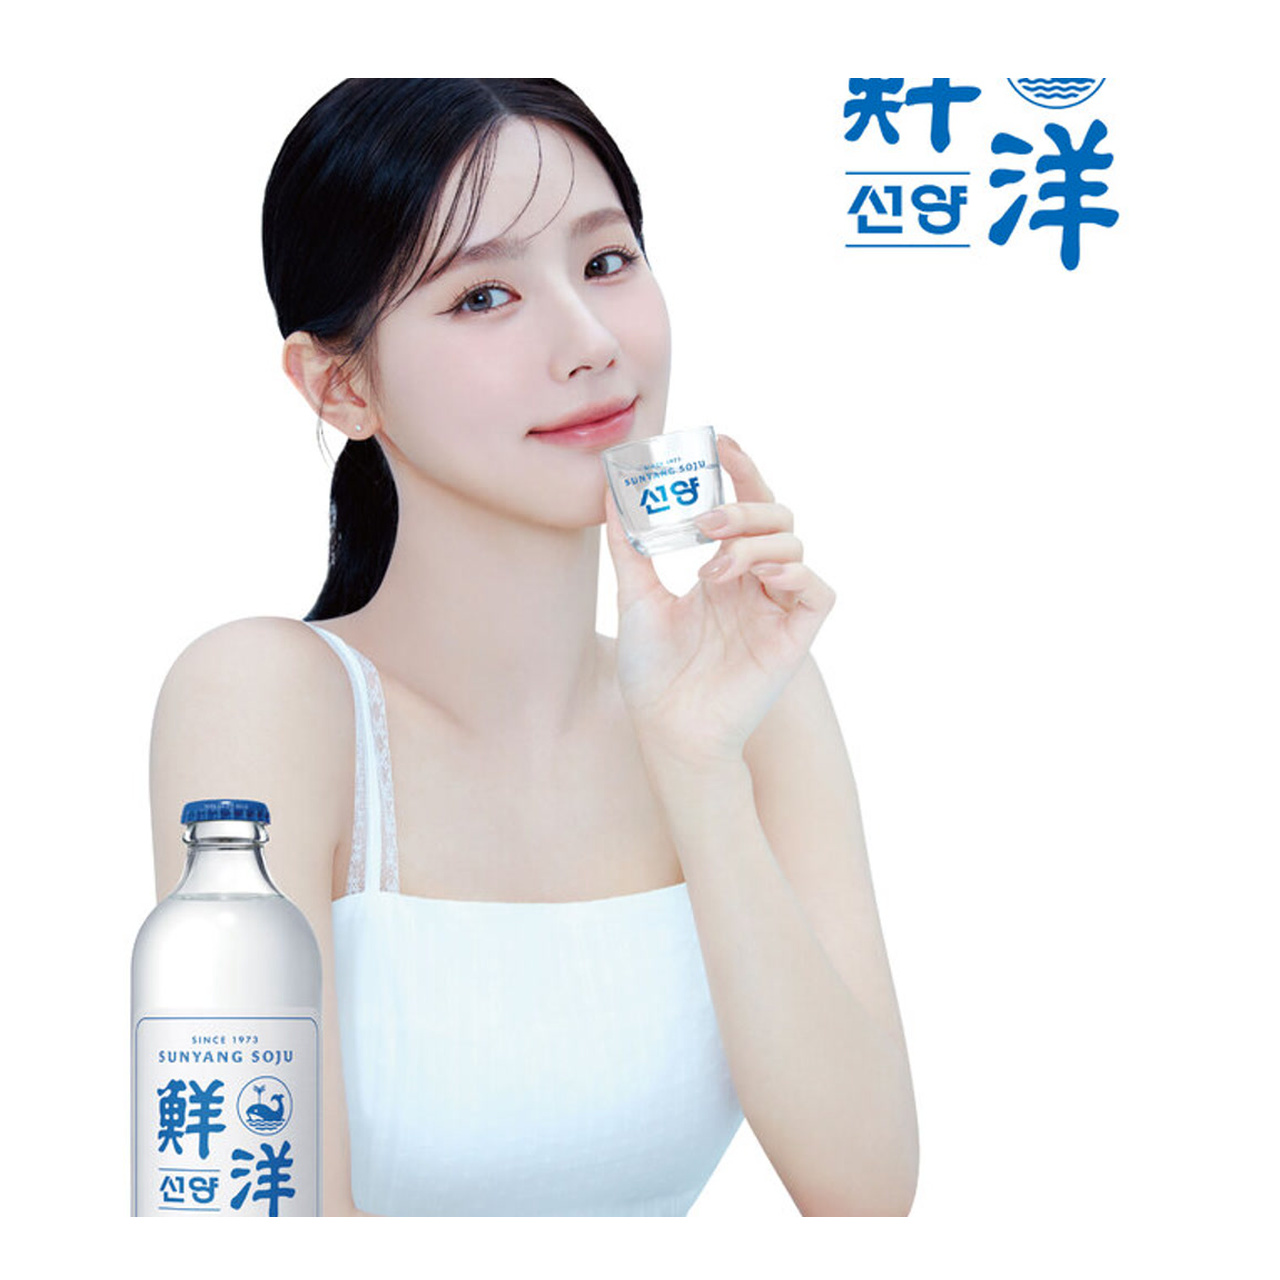
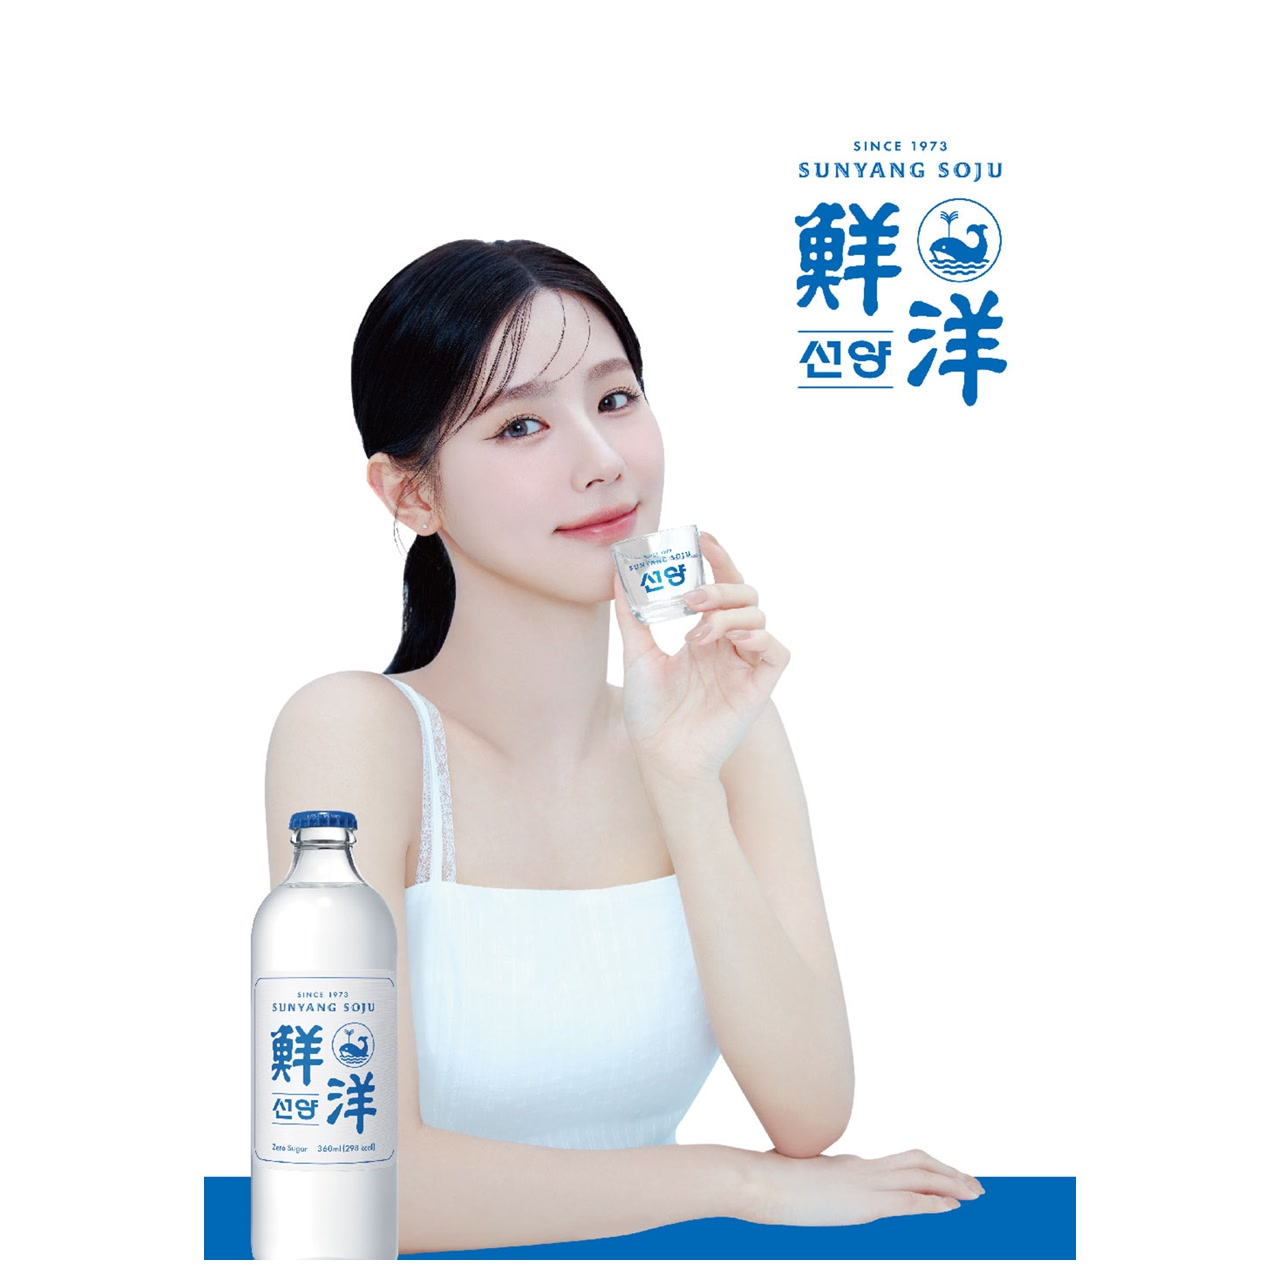
Fix soju model head crops

Changed region(s): [[0.0938, 0.0625, 0.8438, 1.0], [0.625, 0.0625, 0.875, 0.3125]]

diff --git a/tablet-preview.html b/tablet-preview.html
@@ -95,7 +95,7 @@ html[lang="zh"] body,html[lang="zh"] button,html[lang="zh"] input{font-family:"M
 <div class="dialog-layer" id="successModal" aria-hidden="true">
  <section class="dialog-panel success-panel" role="dialog" aria-modal="true" aria-labelledby="successTitle"><div class="success-icon">✓</div><h2 id="successTitle">주문을 전송했습니다</h2><p id="successMessage">주방에서 주문을 확인하고 있습니다.</p><div class="order-receipt"><div class="receipt-box"><span id="successTableLabel">테이블</span><strong id="successTable">-</strong></div><div class="receipt-box"><span id="successTotalLabel">주문 금액</span><strong id="successTotal">0 ₫</strong></div></div><button class="success-done" id="successDone" type="button" onclick="finishOrder()">확인</button></section>
 </div>
-<script src="assets/menu-images.js?v=20260830-visual-option-fix-v6"></script>
+<script src="assets/menu-images.js?v=20260830-soju-head-safe-v7"></script>
 <script src="assets/table-layout.js"></script>
 <script src="assets/option-order.js"></script>
 <script>

diff --git a/assets/menu-images.js b/assets/menu-images.js
@@ -8,7 +8,7 @@ const MENU_QR_ADDED_IMAGE_IDS=new Set(`08b4aba2-4116-4148-b2a9-763c5d72d543 3b52
 const MENU_QR_ADDED_JPG_IDS=new Set(`6a4fc8cd-4937-46f0-990c-536bdffb1de3`.split(' '));
 MENU_QR_ADDED_IMAGE_IDS.forEach(id=>MENU_IMAGE_IDS.add(id));
 MENU_QR_ADDED_JPG_IDS.forEach(id=>MENU_JPG_IDS.add(id));
-const MENU_IMAGE_REVISION='20260830-visual-option-fix-v6';
+const MENU_IMAGE_REVISION='20260830-soju-head-safe-v7';
 const MENU_FORCE_PNG_IDS=new Set(`1644c776-3499-42d0-a911-ab8152608195`.split(' '));
 const MENU_FORCE_JPG_IDS=new Set(`2813d1e7-250b-49ae-9f76-e5b40f451492 45a0262c-d9f7-4b8b-a937-542d81c32e95`.split(' '));
 function menuImage(id){if(!MENU_IMAGE_IDS.has(id))return'';const extension=MENU_FORCE_PNG_IDS.has(id)?'png':MENU_FORCE_JPG_IDS.has(id)||MENU_JPG_IDS.has(id)||MENU_GENERATED_JPG_IDS.has(id)||MENU_REFRESHED_JPG_IDS.has(id)||MENU_REFRAMED_JPG_IDS.has(id)||MENU_CROPPED_JPG_IDS.has(id)?'jpg':'png';return`assets/menu/${id}.${extension}?asset=${MENU_IMAGE_REVISION}`}

diff --git a/service-worker.js b/service-worker.js
@@ -1,4 +1,4 @@
-const CACHE_VERSION = 'dabang-tablet-v15';
+const CACHE_VERSION = 'dabang-tablet-v16';
 const SHELL_CACHE = `${CACHE_VERSION}-shell`;
 const RUNTIME_CACHE = `${CACHE_VERSION}-runtime`;
 const APP_SHELL = [
@@ -6,7 +6,7 @@ const APP_SHELL = [
   './manifest.webmanifest',
   './assets/table-layout.js',
   './assets/option-order.js',
-  './assets/menu-images.js?v=20260830-visual-option-fix-v6',
+  './assets/menu-images.js?v=20260830-soju-head-safe-v7',
   './assets/brand/dabang-logo.png',
   './assets/pwa/icon-32.png',
   './assets/pwa/icon-180.png',

diff --git a/docs/STORE_HANDOFF.md b/docs/STORE_HANDOFF.md
@@ -1,6 +1,15 @@
 # 매장 노트북 인계 — 다방 테이블오더
 
-> 최신 상태는 바로 아래 `2026-08-30 추가 보정 상태`다. 그 아래의 같은 날 진행 상태와 2026-08-29 내용은 당시 기록으로 보존한다.
+> 최신 상태는 바로 아래 `2026-08-30 소주 사진 머리 안전 보정`이다. 그 아래의 같은 날 추가 보정·진행 상태와 2026-08-29 내용은 당시 기록으로 보존한다.
+
+## 2026-08-30 소주 사진 머리 안전 보정
+
+- 처음처럼은 기존 배포 JPG 자체에서 모델 머리가 잘려 있어, 머리 전체가 있는 같은 광고 원본으로 다시 제작했다. 정수리 위에 안전 여백을 두고 모델을 아래쪽에 배치했다.
+- 선양 소주는 모델 머리, `SUNYANG SOJU` 상표, 병이 모두 보이는 세로 원본을 정사각형 카드 안에 축소·하단 배치했다.
+- 기존 선양 오크 사진은 일반 선양과 동일한 파일이었으므로 같은 머리 안전 보정본을 적용했다. 별도 선양 오크 원본 사진은 아직 확보되지 않았다.
+- 인물 얼굴이나 제품 라벨을 생성·재해석하지 않고 원본 광고 픽셀을 사용했다.
+- 설치형 태블릿이 이전 JPG를 재사용하지 않도록 이미지 리비전을 `20260830-soju-head-safe-v7`, 서비스워커를 `dabang-tablet-v16`으로 갱신했다.
+- 실제 주문·결제는 제출하지 않는다. 공개 안전 미리보기에서 변경 카드와 장바구니 0개를 확인한 뒤 완료한다.
 
 ## 2026-08-30 추가 보정 상태
 
